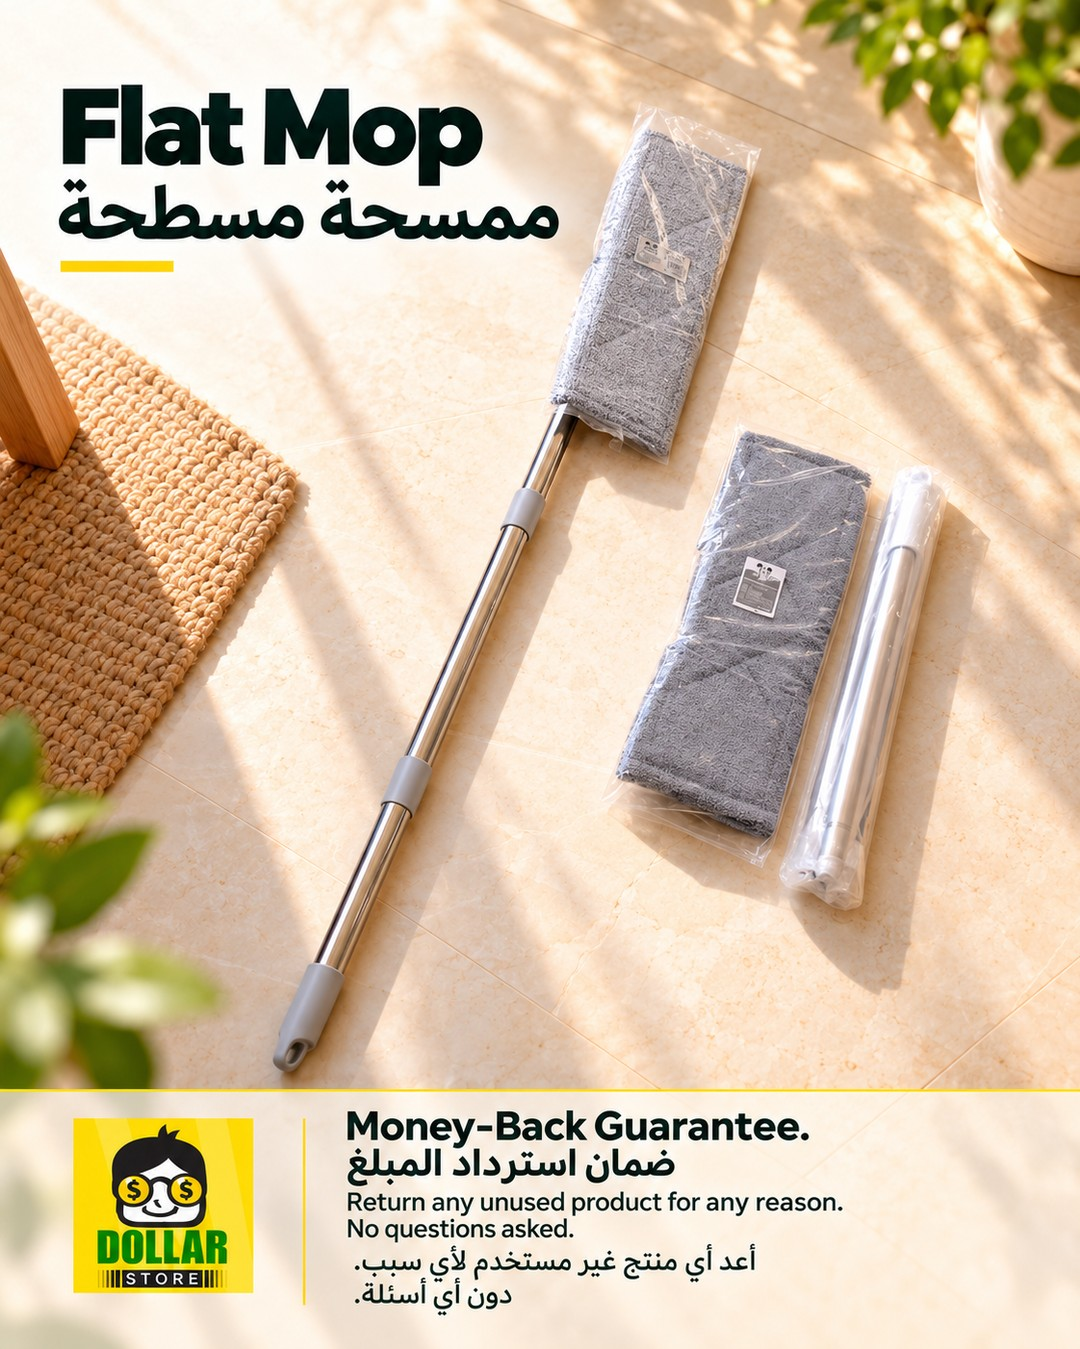
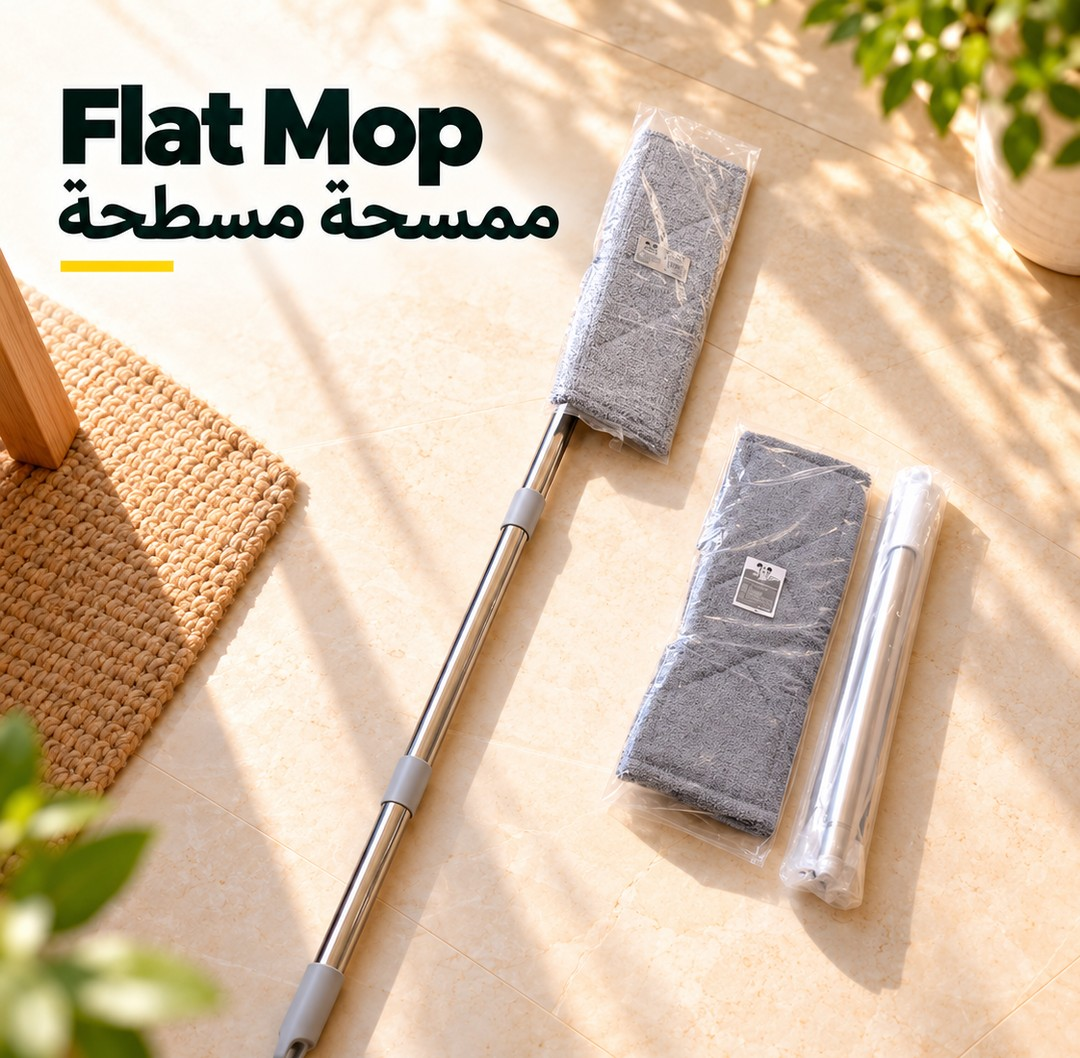
Catalogue: remove old guarantee strips, add lowest-price guarantee line
Claude-Session: https://claude.ai/code/session_01M4KrPz6PrYQGruaALSYAfL

diff --git a/reels/index.html b/reels/index.html
@@ -252,7 +252,7 @@ function adCard(){
   if(k==="store")return infoCard();
   if(k==="coupon")return `<section class="card ad adcoupon"><div class="bgblur" data-bg="coupon-jewellery.jpg"></div><img class="media" src="coupon-jewellery.jpg" alt="Jewellery coupon"><div class="adbar"><span class="adtag">AD · إعلان</span><div class="adh">Jewellery 0.250<i class="omr" role="img" aria-label="OMR"></i></div><div class="adp">Until 3 November · حتى ٣ نوفمبر</div><button class="btn" data-goto="Jewellery">Shop jewellery · تسوق</button></div></section>`;
   if(k==="order")return `<section class="card end ad adgreen"><span class="adtag">AD · إعلان</span><img class="logo" src="logo.png" alt="Dollar Store Oman"><h2>Order on WhatsApp</h2><p dir="rtl" lang="ar"><strong>اطلب عبر واتساب</strong></p><p>Send the product name. We reply fast.</p><div class="btns"><a class="btn" href="${WA_LINK}" target="_blank" rel="noopener">Open WhatsApp · واتساب</a></div><span class="num">${esc(WA)}</span></section>`;
-  return `<section class="card end ad"><span class="adtag">AD · إعلان</span><img class="logo" src="logo.png" alt="Dollar Store Oman"><h2>${esc(STORE.deliv_en)}</h2><p dir="rtl" lang="ar"><strong>${esc(STORE.deliv_ar)}</strong></p><p>${esc(STORE.hours_en)}</p><p style="opacity:.7;font-size:.78rem">Product images are for illustration · الصور للتوضيح</p><div class="btns"><a class="btn alt" href="${esc(mapsLink())}" target="_blank" rel="noopener">Get directions · الموقع</a></div></section>`;
+  return `<section class="card end ad"><span class="adtag">AD · إعلان</span><img class="logo" src="logo.png" alt="Dollar Store Oman"><h2>${esc(STORE.deliv_en)}</h2><p dir="rtl" lang="ar"><strong>${esc(STORE.deliv_ar)}</strong></p><p>${esc(STORE.hours_en)}</p><p><strong>Lowest price or your money back</strong> · <span dir="rtl" lang="ar">أقل سعر أو استرداد أموالك</span></p><p style="opacity:.7;font-size:.78rem">Product images are for illustration · الصور للتوضيح</p><div class="btns"><a class="btn alt" href="${esc(mapsLink())}" target="_blank" rel="noopener">Get directions · الموقع</a></div></section>`;
 }
 function pickBatch(first){
   if(first){const list=ITEMS.filter(p=>state.cat==="All"||(state.cat==="Clearance"?(p.cat!=="Coupons"&&+priceOf(p)<0.729):p.cat===state.cat));list.forEach(p=>shown.add(p.id));return list}
